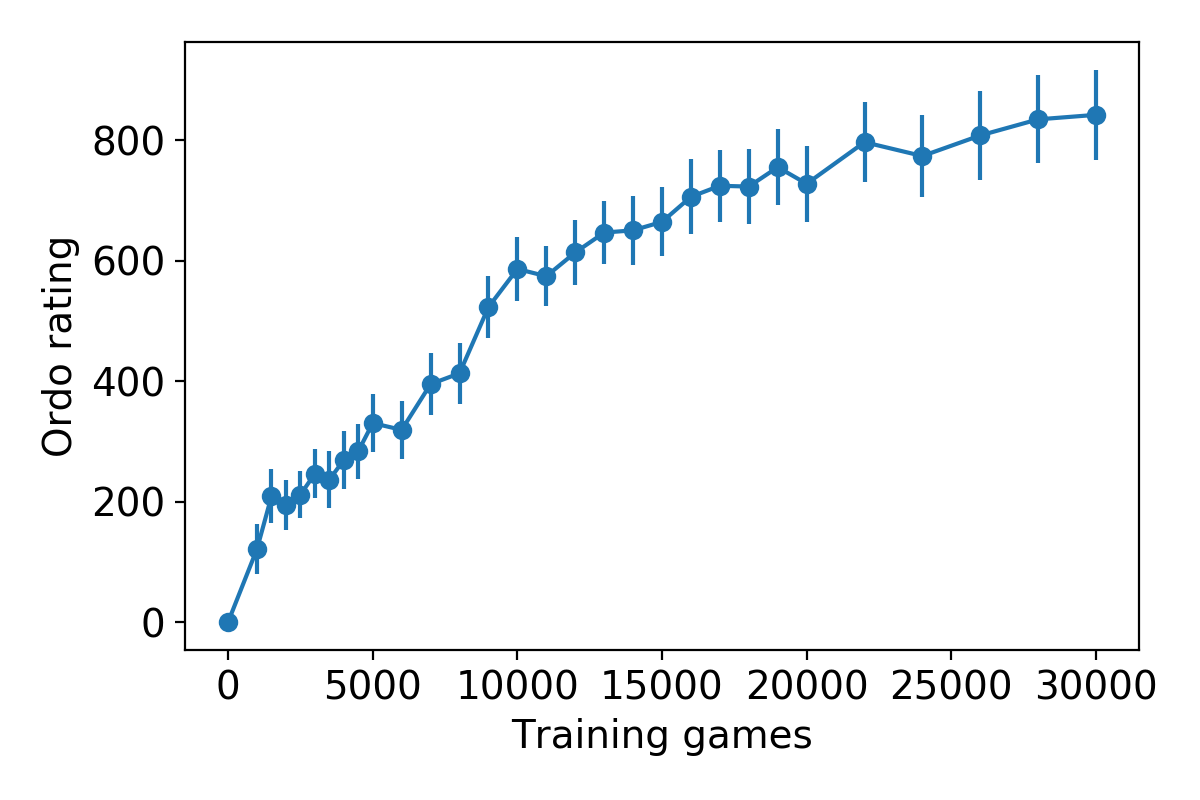
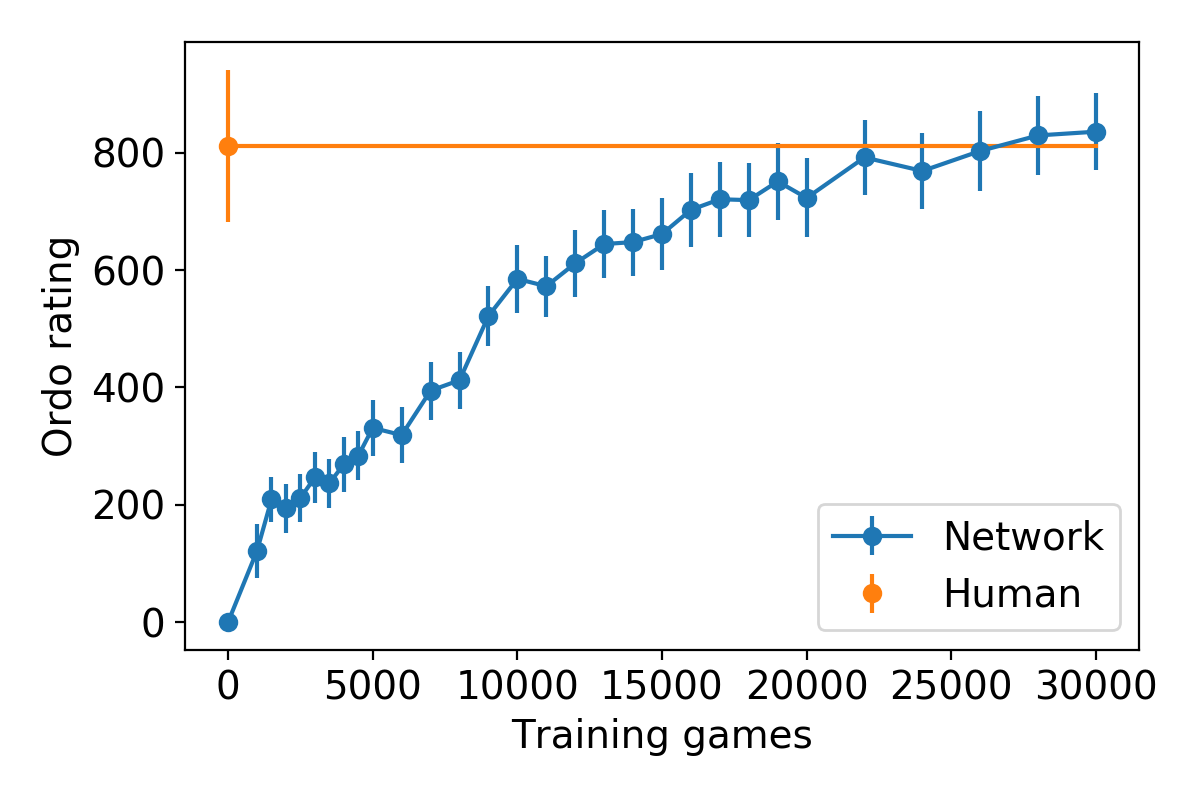
Add human results

diff --git a/src/gui.py b/src/gui.py
@@ -117,5 +117,5 @@ if __name__ == '__main__':
     # print_result(*play(p1, p2))
     # print_result(*play(p2, p1))
     from stats import make_stats
-    make_stats(p1, p2, 'Felix', best_net, 'Felix_vs_net20000',
-               num=4, temp=(3, 0.5), save=True)
+    make_stats(p1, p2, 'Felix', name, 'Felix_vs_net30000',
+               num=4, temp=(5, 1.0), save=True)
